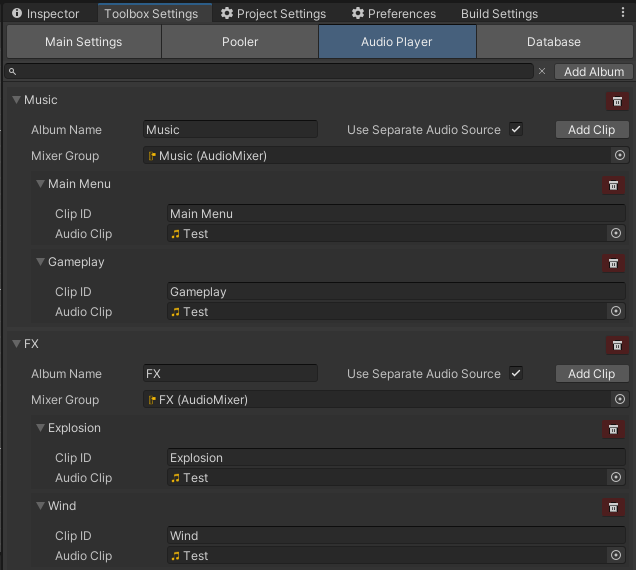
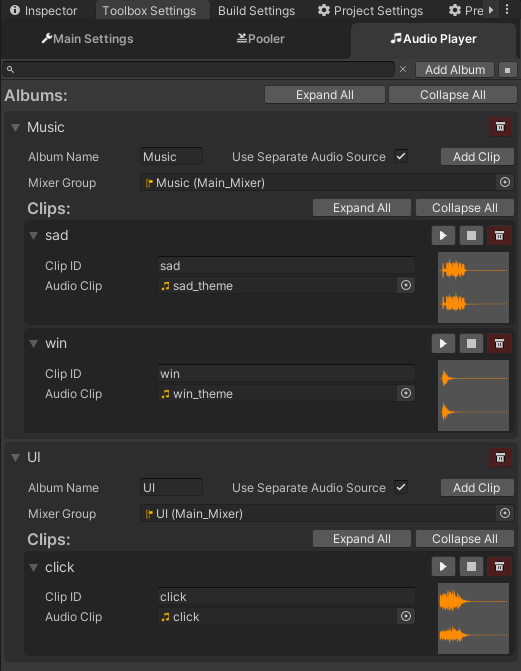
upd

diff --git a/docs/toolbox/toolbox-settings.md b/docs/toolbox/toolbox-settings.md
@@ -1,11 +1,10 @@
 From this window you can adjust main settings, edit initial pools, set up audios and edit properties in database.
 
-'Toolbox Settings' window has four tabs:
+'Toolbox Settings' window has three tabs:
 
 - Main Settings
 - Pooler
 - Audio Player
-- Database
 
 Let's look all them.
 
@@ -20,14 +19,12 @@ There you can edit following properties:
 - `Target Frame Rate`: Default target frame rate option, which will be setted at startup.
 - `Initial Scene Name`: The scene that will be loaded first after `MAIN` scene loaded.
 - `Initial Scene Args`: Arguments for initial scene.
-- `Manual Fade Out`: If enabled, then you can manually control when black screen will be faded out after initial scene loaded, otherwise Toolbox automatically fades it out right after initial scene loaded.
-- `Fade Out Duration`: Simply controls fade out duration when `Manual Fade Out` disabled.
 
 ###Pooler
 
 <img src="pooler_empty.png">
 
-From this window you can edit initial pools list and adjust properties of each.
+From this window you can edit initial pools list, adjust properties of each and set garbage collector interval.
 
 You can create new pool by clicking 'Add Pool' button.
 
@@ -43,7 +40,7 @@ Each pool has following parameters:
 
 To delete pool, simply click button with trash icon.
 
-You can also search necessary pool by writing its tag in search field.
+You can search necessary pool by writing its tag in search field.
 
 ###Audio Player
 
@@ -72,34 +69,8 @@ Each clip has following parameters:
 - `Clip ID`: ID of the clip, through which you can retrieve it.
 - `Audio Clip`: Actual audio clip asset.
 
-<img src="database_filled.png">
+<img src="audio_player_filled.png">
 
 To delete clip click button with trash icon.
 
-###Database
-
-From this window you can define database for your project.
-If you opening it first time it will look like this:
-
-<img src="database.png">
-
-To create new database right click in project window and go to `Create/Toolbox/Properties Database`.
-It will create new scriptable object with all variables in it.
-Rename it as you wish and drag into 'Properties' fieeld in 'Database' tab of Toolbox Settings window.
-After adding database you can define your propertiess.
-
-<img src="database_added.png">
-
-To add new property click '+' button.
-
-<img src="database_property_added.png">
-
-Each property has following parameters:
-
-- `ID`: ID of the property, through which you can retrieve it.
-- `Type`: Type of the property. Can be one of the following: `Bool`, `Float`, `Int`, `Vector2`, `Vector3`, `Vector4`, `String`.
-- `Value`: Actual value of the property.
-
-<img src="database_filled.png">
-
-To delete property click button with trash icon.
+You can search necessary album by writing its name in search field.

diff --git a/docs/toolbox/traveler.md b/docs/toolbox/traveler.md
@@ -42,7 +42,7 @@ public class PingPongSceneArgs: SceneArgs
 }
 ```
 
-In that example we're setting up enemy's speed defined by `PingPongSceneArgs`. `SceneArgs` class derived from `ScriptableObject`, so you can create some `PingPongSceneArgs` assets and bind it to difficulty buttons in your menu scene.
+In that example we're setting up enemy's speed defined by `PingPongSceneArgs`. `SceneArgs` class derived from `ScriptableObject`, so you can create multiple `PingPongSceneArgs` assets for every difficulty and bind it to difficulty buttons in your menu scene.
 
 You can also override `OnSceneUnload` method, to do some logic before scene unloads.
 
@@ -78,9 +78,30 @@ Traveler.UnloadAllScenes();
 
 This methods will also returns a UniTask.
 
+`LoadScene` method has overload, that allows you to get `SceneHandler`. So if you know which type of `SceneHandler` scene that you are loading has then you can use this type as generic:
+
+```C#
+var handler = await Traveler.LoadScene<PingPongSceneHandler>();
+```
+
+But if you want to get `SceneHandler` after opening scene you can still do that, using following syntax:
+
+```C#
+var handler = Traveler.TryGetSceneHandler<PingPongSceneHandler>();
+```
+
+or
+
+```C#
+var handlers = Traveler.TryGetAllSceneHandlers<PingPongSceneHandler>();
+```
+if you have multiple scenes with this type of handler.
+
 ##Loading order
 
 After calling `LoadScene` of [Traveler](traveler.md)'s class, it will be waiting before current operations (loading/unloading scenes) finished his work. Then scene will be loaded usually, and `SceneLoadingMessage` will be fired. After scene finished loading `SceneLoadedMessage` fires and all objects in scene will be traversed. If any object contains `SceneHandler`, then it will be initialized by [`Updater`](updater.md) and starts preparing scene. Then all objects in scene will be initialized and `SceneOpenedMessage` fires.
+
+<span style="color:red">IMPORTANT!</span> Scene handler must be a root game object in scene.
 
 On `UnloadScene` call it will be wait until current operations (loading/unloading scenes) done it's work. Then `SceneUnloadingMessage` fires, if `SceneHandler` on this scene exists, then `OnSceneUnload` method invokes and all objects in scene removes from [`Updater`](updater.md) processing. Finally, it unloads scene usually, waits for it's finish and fires `SceneUnloadedMessage`.
 

diff --git a/docs/toolbox/dependencies.md b/docs/toolbox/dependencies.md
@@ -1,5 +1,3 @@
 Toolbox uses other packages to work properly, here yo can see all of them with links related.
 
 - [UniTask](https://github.com/Cysharp/UniTask): used to easily work with async/await in unity environment
-- [Naughty Attributes](https://github.com/dbrizov/NaughtyAttributes): allowed to build pretty editor interface. such as scene name selectors.
-- [TypeReferences](https://github.com/SolidAlloy/ClassTypeReference-for-Unity): allows [`Messenger`](messenger.md) to work in inspector, by choosing message class type you need.

diff --git a/docs/toolbox/about.md b/docs/toolbox/about.md
@@ -9,11 +9,11 @@ Table of contents:
 
 - [Installing](install.md)
 - [Setup](setup.md)
+- [Dependencies](dependencies.md)
 - [Toolbox Settings](toolbox-settings.md)
 - [MonoCached](monocached.md)
 - [Updater](updater.md)
 - [Traveler](traveler.md)
 - [Pooler](pooler.md)
-- [Messenger (WIP)](messenger.md)
-- [Audio Player (WIP)](audioplayer.md)
-- [Database (WIP)](database.md)
+- [Messenger](messenger.md)
+- [Audio Player](audioplayer.md)

diff --git a/docs/toolbox/install.md b/docs/toolbox/install.md
@@ -42,12 +42,6 @@ Alternatively, merge the snippet to Packages/manifest.json
 * add following scopes:
 
     `com.volumebox.toolbox`
-  
-    `com.dbrizov`
-  
-    `com.solidalloy`
-    
-    `org.nuget`
 	
 	`com.cysharp`
   
